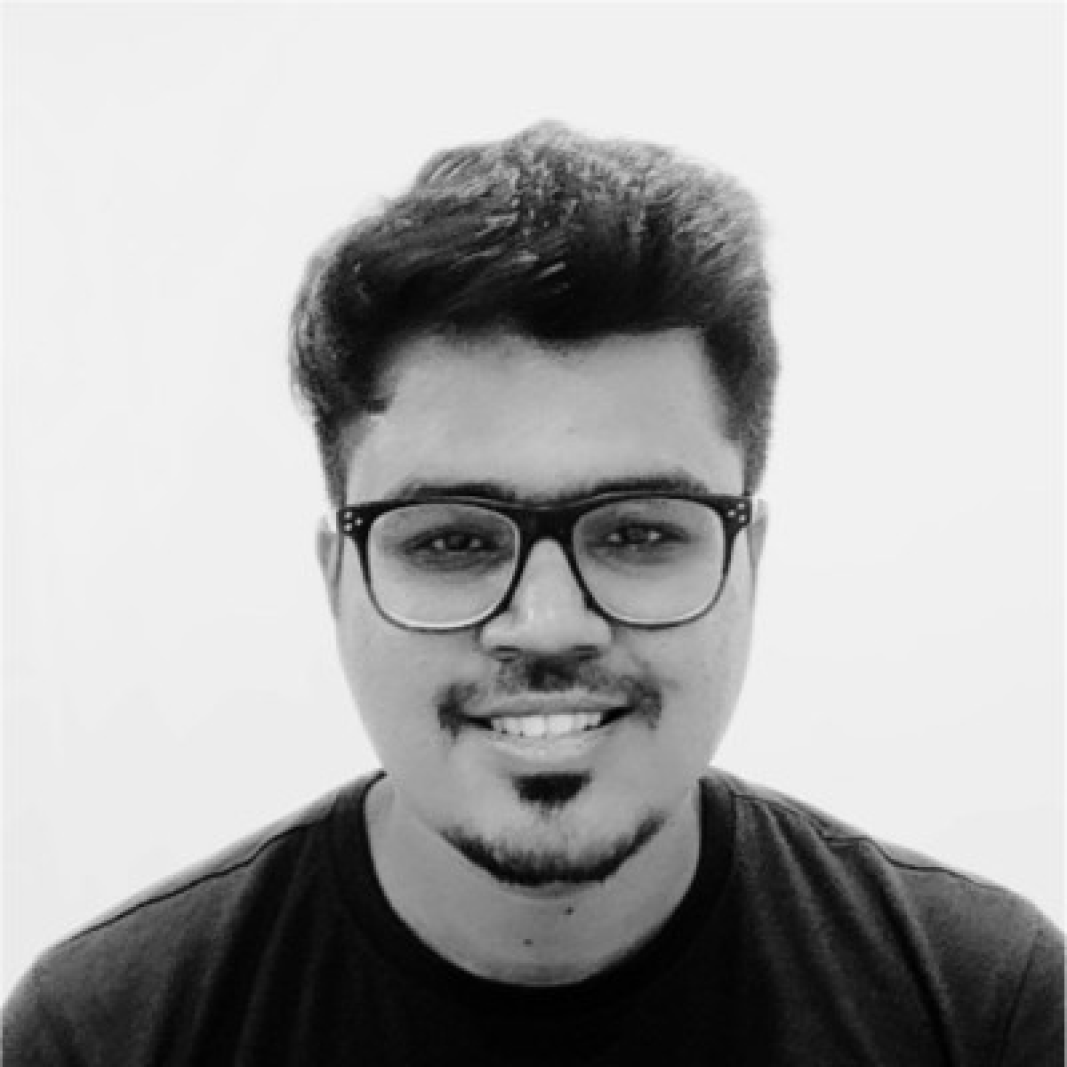
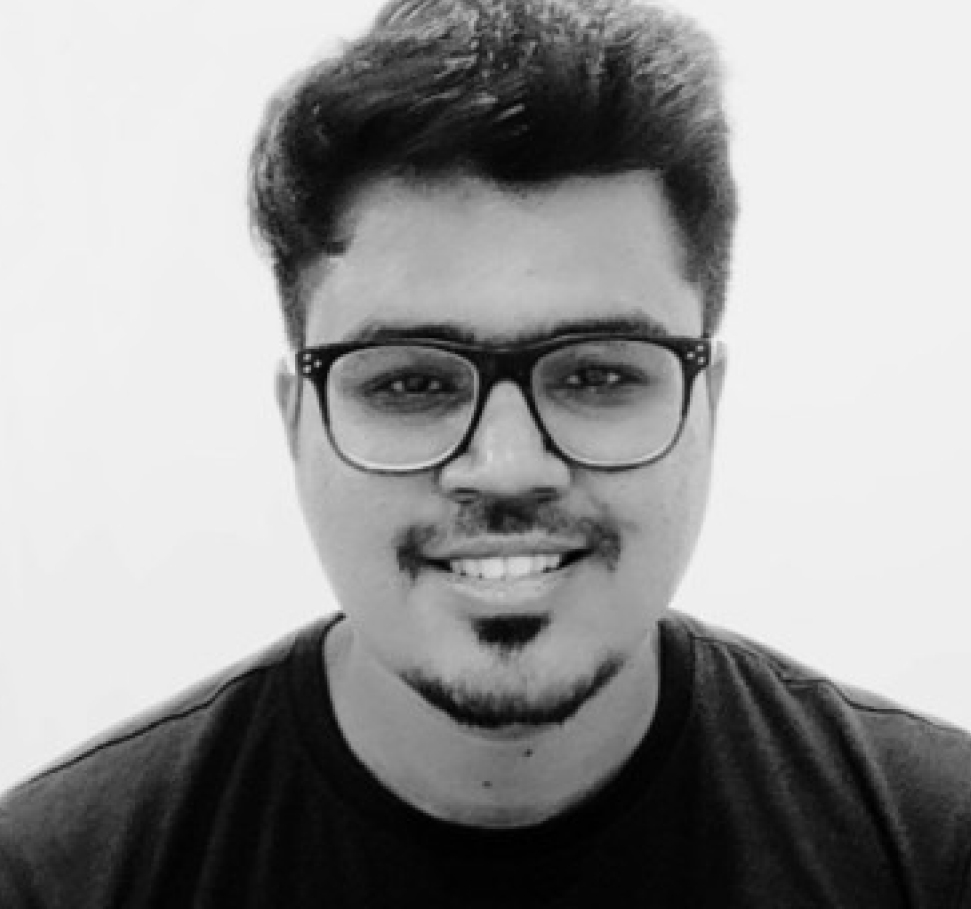
Showcase bamboo workshop section and remove duplicate text from home page
Removes the duplicate "We Curate Bamboo Workshops" text and featured projects from Home.tsx.

Replit-Commit-Author: Agent
Replit-Commit-Session-Id: 2d855d30-cc41-4d51-8a80-d5242bafe87e
Replit-Commit-Screenshot-Url: https://storage.googleapis.com/screenshot-production-us-central1/ef7c7d95-3fa4-4439-8f6f-83a09bcbf9b0/0c0cb699-915b-4a41-b9b4-6a0d349fc95d.jpg

diff --git a/client/src/components/Hero.tsx b/client/src/components/Hero.tsx
@@ -28,9 +28,6 @@ const Hero: React.FC = () => {
           <p className="mt-6 text-xl text-white max-w-3xl">
             "Achieving artistic, functional, and sustainable design solutions."
           </p>
-          <div className="mt-4 text-2xl font-semibold text-green-300 max-w-3xl">
-            We Curate Bamboo Workshops
-          </div>
           <div className="mt-6 text-lg text-white max-w-3xl">
             <p>We bring Bamboo Workshops to you!</p>
             <p className="mt-2">Email: <a href="mailto:Info@bamboomade.in" className="underline hover:text-green-300">Info@bamboomade.in</a></p>

diff --git a/client/src/pages/Home.tsx b/client/src/pages/Home.tsx
@@ -16,8 +16,8 @@ const Home: React.FC = () => {
       </Helmet>
       
       <Hero />
-      <FeaturedProjects />
       <WhyBambooMade />
+      <FeaturedProjects />
       <TeamMembers />
       <TestimonialsSection />
       <CallToAction />
